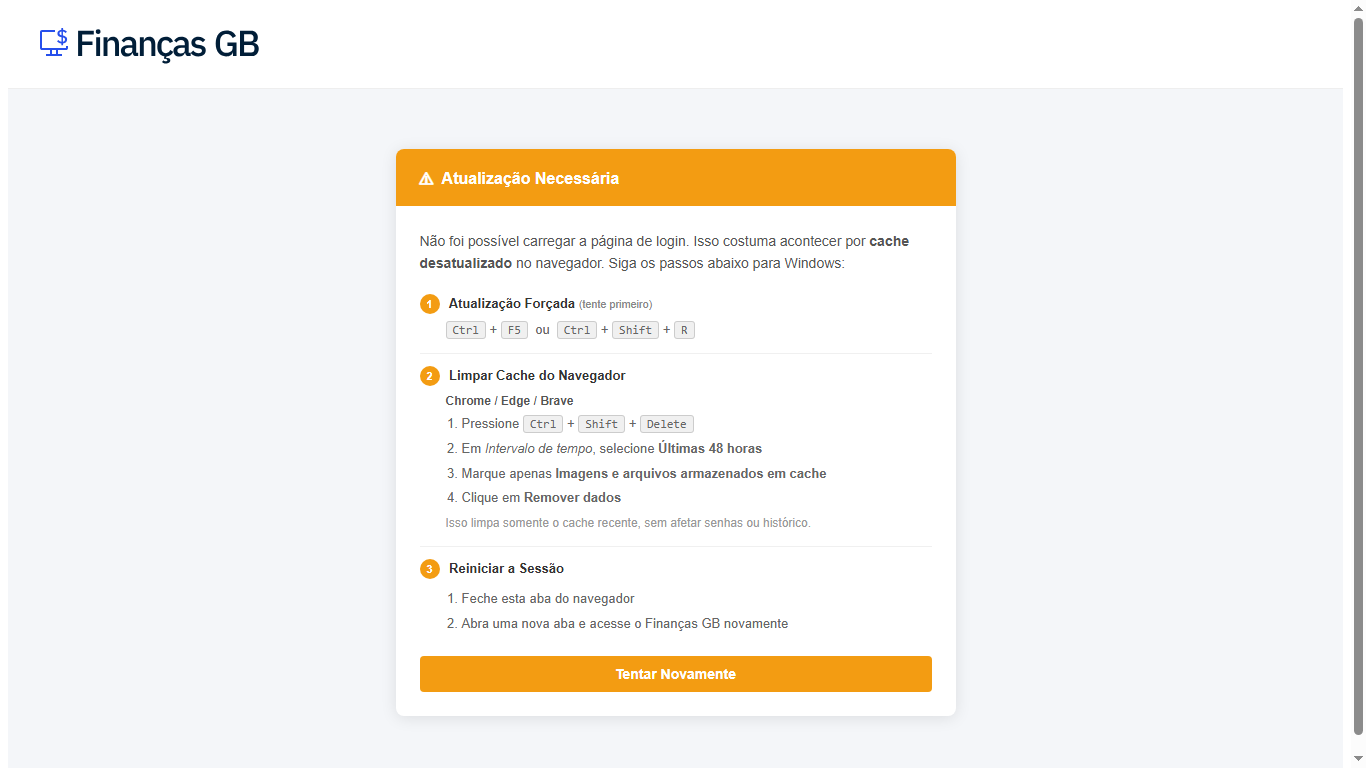
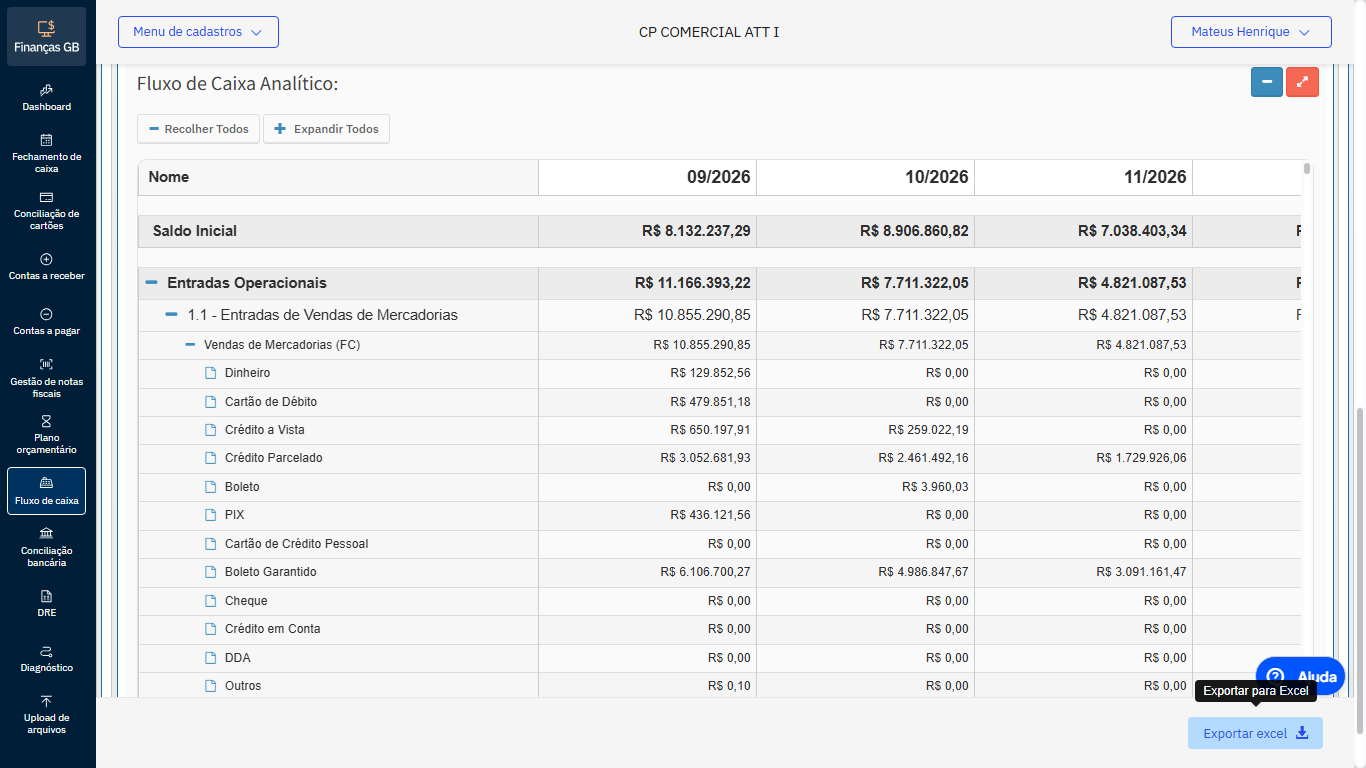
.

diff --git a/core/scheduler/scheduler.py b/core/scheduler/scheduler.py
@@ -150,7 +150,7 @@ def run_job(job_config: dict) -> dict:
     print(f"[Scheduler] Iniciando '{name}' | Ref={date_str} | dias={dias}")
 
     cmd = [sys.executable, str(script), "--data", date_str, "--dias", str(dias)]
-    if "unidade" in job_config:
+    if job_config.get("unidade"):
         cmd.extend(["--unidade", str(job_config["unidade"])])
 
     inicio = datetime.now()
